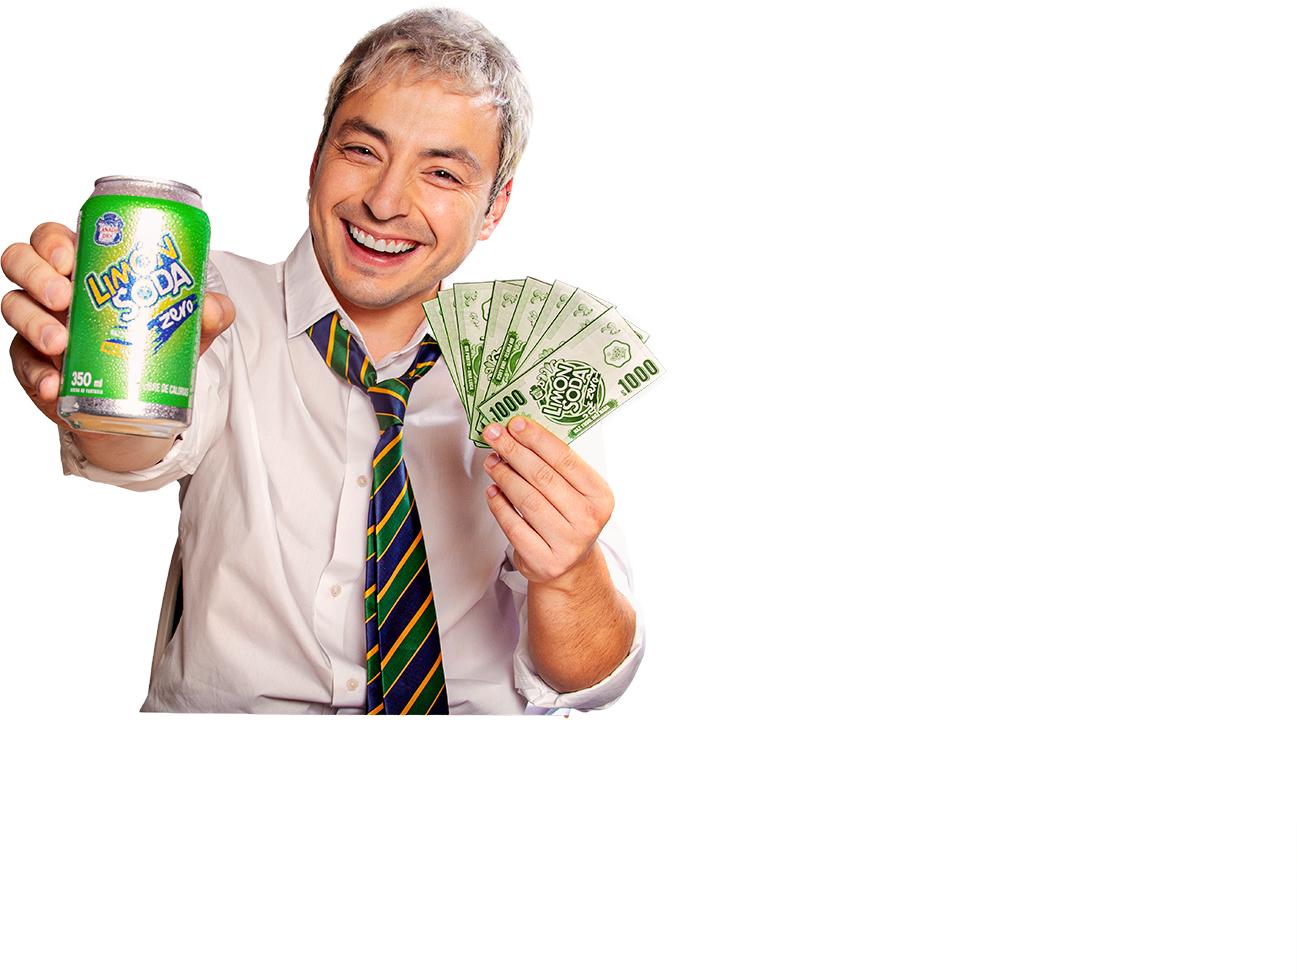
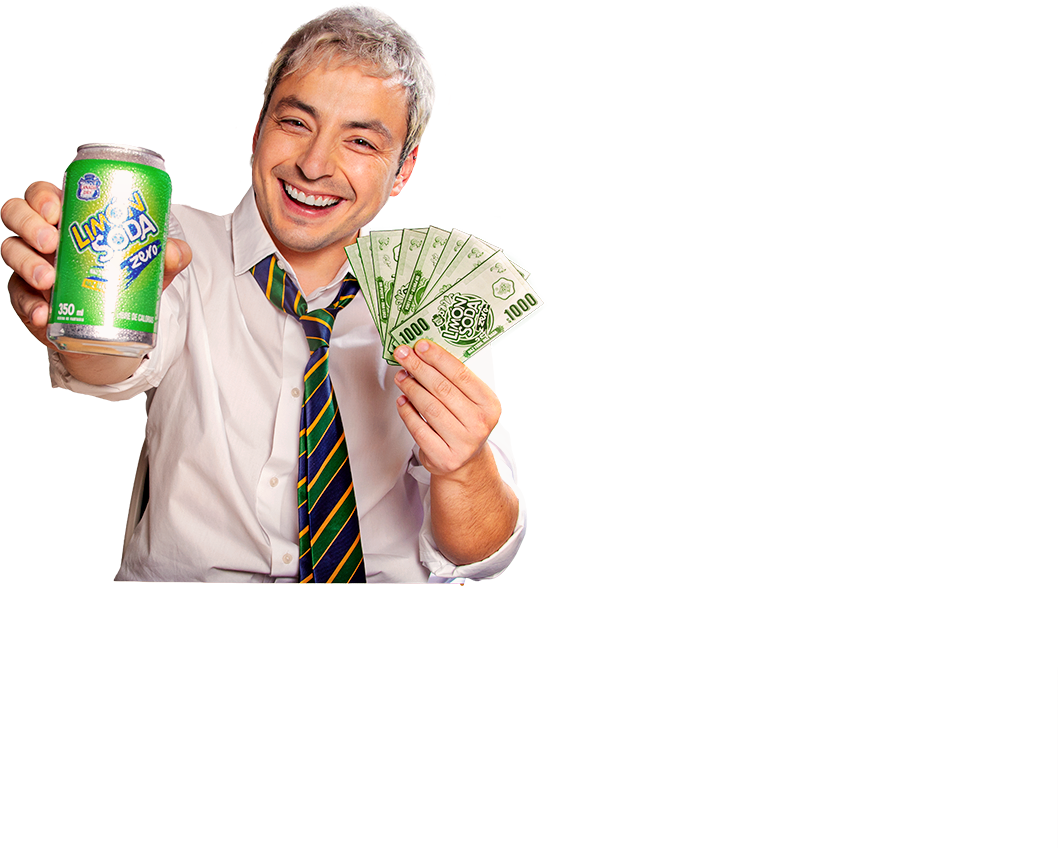
Personajes actualizados, aureolas y versión mobile de las tres estancias
- Index: personajes nuevos según Fondo_Base, aureola del ángel flotando y
  composición mobile propia (capas de Assets/01/Mobile, textos, botón
  amarillo y logo a la derecha).
- Formulario: ángel con aureola detrás del diablo con parallax distinto;
  en mobile, página con scroll sobre Fondo_Mobile y personajes bajo los
  botones.
- Gracias: en mobile, estudiante y lata más chicos bajo los botones de
  compartir y sin "Haz todo / Haz nada".
- Se excluyen las referencias de diseño y los archivos de Photoshop.

Changed region(s): [[0.0, 0.0, 0.5302, 0.7358]]

diff --git a/index.html b/index.html
@@ -46,6 +46,18 @@
       user-select: none;
     }
 
+    /* Escenario mobile: capas de Assets/01/Mobile sobre un lienzo de 1080×1920
+       (referencia: 01/Mobile/Fondo_Mobile). Solo se muestra en mobile */
+    .bg-stage-m { display: none; }
+    .bg-stage-m img {
+      position: absolute;
+      left:  calc(var(--x) / 1080 * 100%);
+      top:   calc(var(--y) / 1920 * 100%);
+      width: calc(var(--w) / 1080 * 100%);
+      height: auto; display: block;
+      pointer-events: none; user-select: none;
+    }
+
     /* Humo: canvas dentro del escenario (lo dibuja humo.js) */
     .bg-humo {
       position: absolute;
@@ -54,6 +66,15 @@
       height: 100%;
       pointer-events: none;
       animation: p1-fade 1.5s ease-out backwards;
+    }
+
+    /* Aureola del ángel: flota de arriba hacia abajo en loop, centrada en su posición de
+       Fondo_Base. Usa la propiedad translate (no transform) para sumarse al parallax, que
+       mueve la capa con transform; ±5% de su alto ≈ ±6 px del lienzo */
+    .bg-aureola { animation: aureola-flota 3.2s ease-in-out infinite; }
+    @keyframes aureola-flota {
+      0%, 100% { translate: 0 -5%; }
+      50%      { translate: 0 5%; }
     }
 
     /* Lata: pulso suave. Solo crece (nunca baja de scale 1) para no destapar lo que hay detrás */
@@ -220,18 +241,36 @@
 
     /* ===================== MOBILE (portrait) ===================== */
     @media (max-width: 768px) {
-      .bg-comp  { --fx: 42%; }                      /* mobile: encuadra la lata y al estudiante */
-      .logo-ls  { top: 2%; left: 0; right: 0; margin-left: auto; margin-right: auto; width: 42%; }
+      /* El escenario mobile (1080×1920) cubre la pantalla como object-fit: cover, centrado.
+         --sw y --sh son su ancho y alto en pantalla; el logo, los textos, el botón y el pie
+         se ubican con px de ese lienzo (X → 50% + (X/1080 − 0.5)·--sw; Y igual con 1920 y
+         --sh) para que siempre calcen con los personajes */
+      body { --vh: 1vh;
+             --sw: max(100vw, var(--vh) * 100 * 9 / 16);
+             --sh: max(var(--vh) * 100, 100vw * 16 / 9); }
+      @supports (height: 1dvh) { body { --vh: 1dvh; } }   /* alto visible real en mobile */
+      .bg-stage { display: none; }                   /* la composición horizontal es solo para desktop */
+      .bg-stage-m { display: block; position: absolute; left: 50%; top: 50%;
+                    width: var(--sw); height: var(--sh); transform: translate(-50%, -50%); }
 
-      /* Bloque de textos centrado, agrupado sobre el botón */
-      .p1-textos { left: 0; right: 0; bottom: auto; margin-left: auto; margin-right: auto;
-                   top: 24%; width: 92vw; }
+      /* Logo: arriba a la derecha, junto a "CAMBIA TUS" (que termina en x 516) y sobre "PUNTOS PAES"
+         (que parte en y 241); su borde derecho calza con el del bloque de textos (lienzo x 601–951, y 22–219) */
+      .logo-ls  { left: calc(50% + (601 / 1080 - 0.5) * var(--sw)); right: auto; margin: 0;
+                  top: calc(50% + (22 / 1920 - 0.5) * var(--sh)); width: calc(350 / 1080 * var(--sw)); }
 
-      /* Botón participa: 20% más pequeño */
-      .btn-wrap { top: 52%; bottom: auto; width: 67vw; }
+      /* Bloque de textos: el mismo de desktop a escala 1.11 (lienzo x 121, y 162, 830 px de ancho) */
+      .p1-textos { left: calc(50% + (121 / 1080 - 0.5) * var(--sw)); right: auto; bottom: auto; margin: 0;
+                   top: calc(50% + (162 / 1920 - 0.5) * var(--sh)); width: calc(830.28 / 1080 * var(--sw)); }
 
-      /* Footer centrado */
-      .p1-footer { left: 0; right: 0; bottom: 2.5%; gap: 14px; align-items: center; }
+      /* Botón participa: centro en x 560, arriba en y 1605, 527 px de ancho. En mobile se ve
+         amarillo (Boton_1_M) como en Fondo_Mobile; al presionar sigue mostrando Boton_1_P */
+      .btn-wrap { left: calc(50% + (560 / 1080 - 0.5) * var(--sw)); bottom: auto;
+                  top: calc(50% + (1605 / 1920 - 0.5) * var(--sh)); width: calc(526.9 / 1080 * var(--sw)); }
+      .btn-participa::before { background-image: url("Assets/Boton_1_M.svg"); }
+
+      /* Footer centrado bajo el botón, terminando en y 1905 del lienzo */
+      .p1-footer { left: 0; right: 0; bottom: calc(50% - (1905 / 1920 - 0.5) * var(--sh));
+                   gap: 8px; align-items: center; }
       .p1-social { gap: 22px; justify-content: center; }
       .p1-social img { width: 8vw; }
       .p1-legal  { gap: 4vw; justify-content: center; }
@@ -240,16 +279,29 @@
   </style>
 </head>
 <body>
-  <!-- Fondo estancia 1: capas de atrás hacia adelante (fondo, diablo, ángel, humo hasta el pecho, estudiante, mesa, lata) -->
+  <!-- Fondo estancia 1: capas de atrás hacia adelante (fondo, diablo, ángel, humo hasta el pecho, estudiante, mesa, lata).
+       Un escenario para desktop y otro para mobile; con loading="lazy" cada dispositivo
+       descarga solo las imágenes del escenario que muestra -->
   <div class="bg-comp" aria-hidden="true">
     <div class="bg-stage">
-      <img src="Assets/01/Fondo.png"      style="--x:0;   --y:0;   --w:1920" data-depth="40"  alt="" />
-      <img src="Assets/01/Diablo.png"     style="--x:130; --y:83;  --w:505"  data-depth="24"  alt="" />
-      <img src="Assets/01/ANGEL.png"      style="--x:870; --y:15;  --w:974"  data-depth="24"  alt="" />
+      <img src="Assets/01/Fondo.png"      style="--x:0;   --y:0;   --w:1920" data-depth="40"  loading="lazy" alt="" />
+      <img src="Assets/01/Diablo.png"     style="--x:277; --y:217; --w:412"  data-depth="24"  loading="lazy" alt="" />
+      <img src="Assets/01/ANGEL.png"      style="--x:878; --y:184; --w:798"  data-depth="24"  loading="lazy" alt="" />
+      <img src="Assets/01/Aureola.png"    style="--x:1400; --y:161; --w:154" data-depth="24"  loading="lazy" class="bg-aureola" alt="" />
       <canvas class="bg-humo humo-pecho" width="960" height="540" data-depth="12"></canvas>
-      <img src="Assets/01/ESTUDIANTE.png" style="--x:621; --y:101; --w:1297" alt="" />
-      <img src="Assets/01/MESA.png"       style="--x:0;   --y:0;   --w:1920" data-depth="-12" alt="" />
-      <img src="Assets/01/Mano_Lata.png"  style="--x:460; --y:210; --w:489"  class="bg-lata" alt="" />
+      <img src="Assets/01/ESTUDIANTE.png" style="--x:678; --y:232; --w:1058" loading="lazy" alt="" />
+      <img src="Assets/01/MESA.png"       style="--x:0;   --y:0;   --w:1920" data-depth="-12" loading="lazy" alt="" />
+      <img src="Assets/01/Mano_Lata.png"  style="--x:547; --y:320; --w:399"  loading="lazy" class="bg-lata" alt="" />
+    </div>
+    <div class="bg-stage-m">
+      <img src="Assets/01/Mobile/FONDO.png"      style="--x:0;   --y:0;   --w:1080" loading="lazy" alt="" />
+      <img src="Assets/01/Mobile/Diablo.png"     style="--x:13;  --y:642; --w:434"  loading="lazy" alt="" />
+      <img src="Assets/01/Mobile/ANGEL.png"      style="--x:261; --y:622; --w:819"  loading="lazy" alt="" />
+      <img src="Assets/01/Mobile/Aureola.png"    style="--x:804; --y:599; --w:161"  loading="lazy" class="bg-aureola" alt="" />
+      <canvas class="bg-humo humo-pecho-m" width="540" height="960"></canvas>
+      <img src="Assets/01/Mobile/ESTUDIANTE.png" style="--x:254; --y:888; --w:569"  loading="lazy" alt="" />
+      <img src="Assets/01/Mobile/MESA.png"       style="--x:0;   --y:88;  --w:1080" loading="lazy" alt="" />
+      <img src="Assets/01/Mobile/Mano_Lata.png"  style="--x:118; --y:979; --w:414"  loading="lazy" class="bg-lata" alt="" />
     </div>
   </div>
 
@@ -340,13 +392,25 @@
     });
 
     // Humo entre el estudiante y el diablo/ángel: niebla baja que sale de detrás de la
-    // mesa y les llega hasta el pecho (pecho del diablo y del ángel: y ≈ 420–480)
+    // mesa y les llega hasta el pecho (pecho del diablo y del ángel: y ≈ 490–560;
+    // el diablo ocupa x ≈ 280–690 y el ángel x ≈ 1140–1650)
     crearHumo(document.querySelector('.humo-pecho'), {
       cantidad: 40,
-      zonas: [[-60, 700, 0.45], [1150, 1980, 0.45], [700, 1150, 0.1]],
-      y: [480, 820], subida: [3, 10], deriva: 20,
+      zonas: [[160, 760, 0.45], [1080, 1780, 0.45], [760, 1080, 0.1]],
+      y: [560, 880], subida: [3, 10], deriva: 20,
       tamano: [300, 480], crece: [8, 18], vida: [18, 28], opacidad: [0.35, 0.5],
-      techo: [410, 540],
+      techo: [490, 620],
+    });
+
+    // Lo mismo en el escenario mobile (lienzo 1080×1920): pecho del diablo y del ángel
+    // en y ≈ 920–1000; el diablo ocupa x ≈ 13–447 y el ángel x ≈ 470–1080
+    crearHumo(document.querySelector('.humo-pecho-m'), {
+      ancho: 1080,
+      cantidad: 26,
+      zonas: [[-40, 470, 0.45], [560, 1120, 0.45], [470, 560, 0.1]],
+      y: [1000, 1450], subida: [3, 10], deriva: 20,
+      tamano: [300, 480], crece: [8, 18], vida: [18, 28], opacidad: [0.35, 0.5],
+      techo: [900, 1020],
     });
 
     /* ===== PRUEBA: transición círculo amarillo -> formulario =====

diff --git a/formulario.html b/formulario.html
@@ -37,6 +37,15 @@
       pointer-events: none; user-select: none;
     }
 
+    /* Aureola del ángel: flota de arriba hacia abajo en loop (igual que en el index).
+       Usa la propiedad translate (no transform) para sumarse al parallax, que mueve la
+       capa con transform; ±5% de su alto ≈ ±7 px del lienzo */
+    .bg-aureola { animation: aureola-flota 3.2s ease-in-out infinite; }
+    @keyframes aureola-flota {
+      0%, 100% { translate: 0 -5%; }
+      50%      { translate: 0 5%; }
+    }
+
     /* Humo: canvas dentro del escenario (lo dibuja humo.js) */
     .bg-humo {
       position: absolute; inset: 0; width: 100%; height: 100%;
@@ -130,20 +139,51 @@
 
     /* ===================== MOBILE (portrait) ===================== */
     @media (max-width: 768px) {
-      .bg-comp { --fx: 30%; }                       /* mobile: encuadra al diablo */
-      .logo-ls  { top: 2%; left: 0; right: 0; margin-left: auto; margin-right: auto; width: 42%; }
+      /* Mobile: página con scroll en la que todo se mide en vw (escala con el ancho, como un
+         afiche): logo, título, recuadro y botones arriba; ángel y diablo abajo, sobre
+         Fondo_Mobile. Todo va en position: absolute (no fixed), así el fondo y los elementos
+         se desplazan juntos al hacer scroll. El alto (268.5vw) es el fin de los botones
+         (171.55vw) + 5vw de aire + el alto de los personajes (91.95vw) */
+      html, body { height: auto; overflow-x: hidden; overflow-y: auto; }
+      html { background: #a1866e; }                /* color del techo de Fondo_Mobile, por si el scroll rebota */
+      body { position: relative; min-height: max(100vh, 268.5vw); background: transparent; }
+      .bg-comp { position: absolute;
+                 background: #a76c45 url("Assets/02/Fondo_Mobile.jpg") center bottom / cover no-repeat; }
+      .bg-stage .bg-fondo { display: none; }        /* la biblioteca horizontal es solo para desktop */
 
+      /* Ángel, aureola, diablo y humo: el grupo ocupa x 21–1023 (1002 px) e y 166–1080 (914 px)
+         del lienzo; en mobile mide 100.8vw de ancho (91.95vw de alto), centrado y apoyado abajo */
+      .bg-stage {
+        --gw: 100.8vw;
+        top: auto; bottom: 0;
+        left: calc(50% - var(--gw) / 2 - var(--gw) * 21 / 1002);
+        width: calc(var(--gw) * 1920 / 1002);
+        transform: none;
+      }
+      /* El escenario achicado deja sus bordes izquierdo y superior dentro de la pantalla:
+         el humo se desvanece hacia ellos para que no se vea cortado */
+      .bg-humo {
+        -webkit-mask-image: linear-gradient(to right, transparent, #000 12%), linear-gradient(to bottom, transparent, #000 28%);
+        -webkit-mask-composite: source-in;
+                mask-image: linear-gradient(to right, transparent, #000 12%), linear-gradient(to bottom, transparent, #000 28%);
+                mask-composite: intersect;
+      }
+
+      .logo-ls, .p2-titulo, .p2-panel, .p2-enviar, .p2-borrar, .p1-footer { position: absolute; }
+      .logo-ls  { top: 4.3vw; left: 0; right: 0; margin-left: auto; margin-right: auto; width: 42%; }
+
+      /* Título 3vw bajo el logo (que termina en 27.9vw); recuadro y botones a continuación */
       .p2-titulo { left: 0; right: 0; margin-left: auto; margin-right: auto;
-                   top: 18%; width: 88vw; }
+                   top: 30.9vw; width: 88vw; }
       .p2-panel  { left: 0; right: 0; margin-left: auto; margin-right: auto;
-                   top: 27%; width: 92vw; height: auto; aspect-ratio: 580 / 644; }
+                   top: 50.4vw; width: 92vw; height: auto; aspect-ratio: 580 / 644; }
       .p2-slogan { display: none; }                /* Haztodo: se oculta para no chocar con el recuadro */
 
       /* Botones ENVIAR / BORRAR centrados como par, debajo del recuadro */
-      .p2-enviar { left: 2vw;  right: auto; top: 77%; width: 47vw; }
-      .p2-borrar { left: 51vw; right: auto; top: 77%; width: 47vw; }
+      .p2-enviar { left: 2vw;  right: auto; top: 158.6vw; width: 47vw; }
+      .p2-borrar { left: 51vw; right: auto; top: 158.6vw; width: 47vw; }
 
-      .p1-footer { left: 0; right: 0; bottom: 2.5%; gap: 14px; align-items: center; }
+      .p1-footer { left: 0; right: 0; bottom: 3vw; gap: 14px; align-items: center; }
       .p1-social { gap: 22px; justify-content: center; }
       .p1-social img { width: 8vw; }
       .p1-legal  { gap: 4vw; justify-content: center; }
@@ -155,9 +195,11 @@
   <!-- Fondo: capas de atrás hacia adelante (biblioteca, humo, diablo, humo hasta el pecho) -->
   <div class="bg-comp" aria-hidden="true">
     <div class="bg-stage">
-      <img src="Assets/01/Fondo.png"  style="--x:0;   --y:0;   --w:1920" data-depth="40" alt="" />
+      <img src="Assets/01/Fondo.png"  style="--x:0;   --y:0;   --w:1920" data-depth="40" class="bg-fondo" alt="" />
       <canvas class="bg-humo humo-atras" width="960" height="540" data-depth="32"></canvas>
-      <img src="Assets/02/Diablo.png" style="--x:226; --y:161; --w:685"  data-depth="24" alt="" />
+      <img src="Assets/02/ANGEL.png"   style="--x:21;  --y:198; --w:729" data-depth="30" alt="" />
+      <img src="Assets/02/Aureola.png" style="--x:427; --y:166; --w:189" data-depth="30" class="bg-aureola" alt="" />
+      <img src="Assets/02/Diablo.png"  style="--x:477; --y:206; --w:546" data-depth="24" alt="" />
       <canvas class="bg-humo humo-adelante" width="960" height="540" data-depth="12"></canvas>
     </div>
   </div>
@@ -216,22 +258,23 @@
       if (!bgRaf) bgRaf = requestAnimationFrame(stepBg);
     });
 
-    // Humo detrás del diablo: nace a los costados de su silueta (el diablo ocupa x 226–911)
-    // y sube rodeando hombros y cabeza
+    // Humo detrás del ángel y el diablo: nace a los costados del grupo (el ángel ocupa
+    // x ≈ 50–680 y el diablo x ≈ 480–1020), y entre sus cabezas, y sube rodeándolos
     crearHumo(document.querySelector('.humo-atras'), {
       cantidad: 40,
-      zonas: [[-100, 330, 0.4], [700, 1250, 0.45], [1250, 2000, 0.15]],
-      y: [200, 850], subida: [10, 25], deriva: 14,
+      zonas: [[-100, 200, 0.3], [560, 700, 0.15], [950, 1450, 0.4], [1450, 2000, 0.15]],
+      y: [240, 890], subida: [10, 25], deriva: 14,
       tamano: [260, 420], crece: [10, 25], vida: [20, 30], opacidad: [0.35, 0.5],
     });
 
-    // Humo delante del diablo: niebla baja que le llega hasta el pecho (y ≈ 600–720)
+    // Humo delante del ángel y el diablo: niebla baja que les llega hasta el pecho
+    // (colgante del ángel y nudo de la corbata del diablo: y ≈ 540–640)
     crearHumo(document.querySelector('.humo-adelante'), {
       cantidad: 34,
-      zonas: [[100, 1050, 0.85], [1050, 1600, 0.15]],
-      y: [700, 1150], subida: [3, 10], deriva: 20,
+      zonas: [[60, 1060, 0.85], [1060, 1600, 0.15]],
+      y: [700, 1190], subida: [3, 10], deriva: 20,
       tamano: [320, 500], crece: [8, 18], vida: [18, 28], opacidad: [0.3, 0.45],
-      techo: [590, 730],
+      techo: [550, 690],
     });
   </script>
 </body>

diff --git a/gracias.html b/gracias.html
@@ -120,16 +120,31 @@
 
     /* ===================== MOBILE (portrait) ===================== */
     @media (max-width: 768px) {
-      .bg-comp { --fx: 70%; }                       /* mobile: encuadra la lata y al estudiante */
+      .bg-comp { --fx: 70%; }                       /* mobile: encuadre de la biblioteca */
       .logo-ls { top: 2%; left: 0; right: 0; margin-left: auto; margin-right: auto; width: 42%; }
 
+      /* Estudiante y lata: más chicos que en desktop, bajo los botones de compartir y
+         apoyados en el borde inferior. En el lienzo el grupo ocupa x 826–1868 (1042 px)
+         e y 129–1080 (951 px). --gh es su alto en pantalla (parte en y ≈ 38.9% + 45.9vw,
+         bajo los botones de compartir), y como máximo 94vw de ancho */
+      .bg-personaje {
+        --vh: 1vh;
+        --gh: min(calc(var(--vh) * 61.1 - 45.9vw - 13px), calc(94vw * 951 / 1042));
+        --gw: calc(var(--gh) * 1042 / 951);
+        top: auto; bottom: 0;
+        left: calc(50% - var(--gw) / 2 - var(--gw) * 826 / 1042);
+        width: calc(var(--gw) * 1920 / 1042);
+        transform: none;
+      }
+      @supports (height: 1dvh) { .bg-personaje { --vh: 1dvh; } }   /* alto visible real en mobile */
+
       .g-textos { left: 0; width: 100%; }           /* mobile: columna a todo el ancho, textos centrados */
-      .g-gracias, .g-comparte, .g-slogan {
+      .g-gracias, .g-comparte {
         left: 0; right: 0; margin-left: auto; margin-right: auto;   /* centra sin transform */
       }
       .g-gracias  { top: 16%; width: 84vw; }
       .g-comparte { top: 33%; width: 86vw; }
-      .g-slogan   { top: 53%; width: 52vw; }
+      .g-slogan   { display: none; }                /* mobile: sin "Haz todo / Haz nada" */
 
       /* Botones de compartir centrados como par */
       .g-share { top: 45%; width: 16vw; }
@@ -145,10 +160,14 @@
   </style>
 </head>
 <body>
-  <!-- Fondo estancia 3: capas de atrás hacia adelante (biblioteca, estudiante, lata) -->
+  <!-- Fondo estancia 3: capas de atrás hacia adelante (biblioteca, estudiante, lata).
+       El estudiante y la lata van en un escenario propio (.bg-personaje) para poder
+       achicarlos y moverlos en mobile; en desktop mide y se ubica igual que el del fondo -->
   <div class="bg-comp" aria-hidden="true">
     <div class="bg-stage">
       <img src="Assets/03/Fondo.png"      style="--x:0;   --y:0;   --w:1920" data-depth="40" alt="" />
+    </div>
+    <div class="bg-stage bg-personaje">
       <img src="Assets/03/ESTUDIANTE.png" style="--x:968; --y:129; --w:900"  alt="" />
       <img src="Assets/03/Mano_Lata.png"  style="--x:826; --y:160; --w:489"  class="bg-lata" alt="" />
     </div>

diff --git a/humo.js b/humo.js
@@ -1,9 +1,11 @@
 /* Humo procedural para los fondos por capas (.bg-stage).
-   Cada <canvas class="bg-humo"> cubre el lienzo de 1920×1080 y se dibuja a media
-   resolución (el humo es difuso). Todas las coordenadas y tamaños de las opciones
-   van en px de ese lienzo.
+   Cada <canvas class="bg-humo"> cubre el lienzo de su escenario (1920×1080 en desktop,
+   1080×1920 en el index mobile) y se dibuja a media resolución (el humo es difuso).
+   Todas las coordenadas y tamaños de las opciones van en px de ese lienzo. Mientras el
+   canvas está oculto (su escenario con display: none) no se dibuja.
 
    crearHumo(canvas, {
+     ancho: 1920,                       // ancho del lienzo del escenario
      cantidad: 46,                      // bocanadas simultáneas
      zonas: [[xMin, xMax, peso], ...],  // dónde nacen (en horizontal) y con qué probabilidad
      y: [min, max],                     // altura donde nacen
@@ -63,7 +65,7 @@
 
   window.crearHumo = function (canvas, o) {
     const ctx = canvas.getContext('2d');
-    const SCALE = canvas.width / 1920;
+    const SCALE = canvas.width / (o.ancho || 1920);
     const textures = getPuffs();
     const pesoTotal = o.zonas.reduce((s, z) => s + z[2], 0);
 
@@ -105,6 +107,7 @@
     const frame = (now) => {
       const dt = Math.min(0.05, (now - last) / 1000);
       last = now;
+      if (!canvas.getClientRects().length) { requestAnimationFrame(frame); return; }
       ctx.setTransform(1, 0, 0, 1, 0, 0);
       ctx.globalCompositeOperation = 'source-over';
       ctx.clearRect(0, 0, canvas.width, canvas.height);
